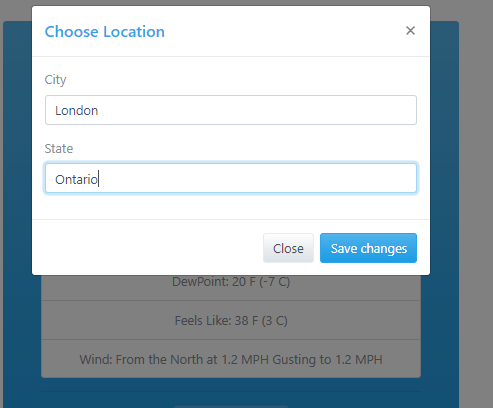
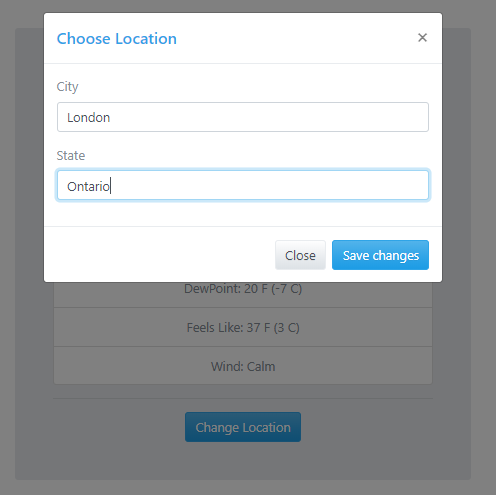
readme

diff --git a/index.html b/index.html
@@ -10,7 +10,7 @@
 <body>
   <div class="container">
     <div class="row">
-      <div class="col-md-6 mx-auto text-center bg-primary mt-5 p-5 rounded">
+      <div class="col-md-6 mx-auto text-center bg-secondary mt-5 p-5 rounded">
         <h1 id="w-location"></h1>
         <h3 class="text-dark" id="w-desc"></h3>
         <h3 id="w-string"></h3>

diff --git a/README.md b/README.md
@@ -3,7 +3,9 @@
 A Simple App that finds the weather using the City and State to search it.
 It was made using OOP and pure prototypal inheritance and my 'fetch' framework. 
 
-I'm use the API from wunderground.com 
+You can reload the page because the app send data to local storage. 
+
+I'm using the API from wunderground.com 
 
 :sunny: :umbrella: :cloud: :snowman:
 ___
